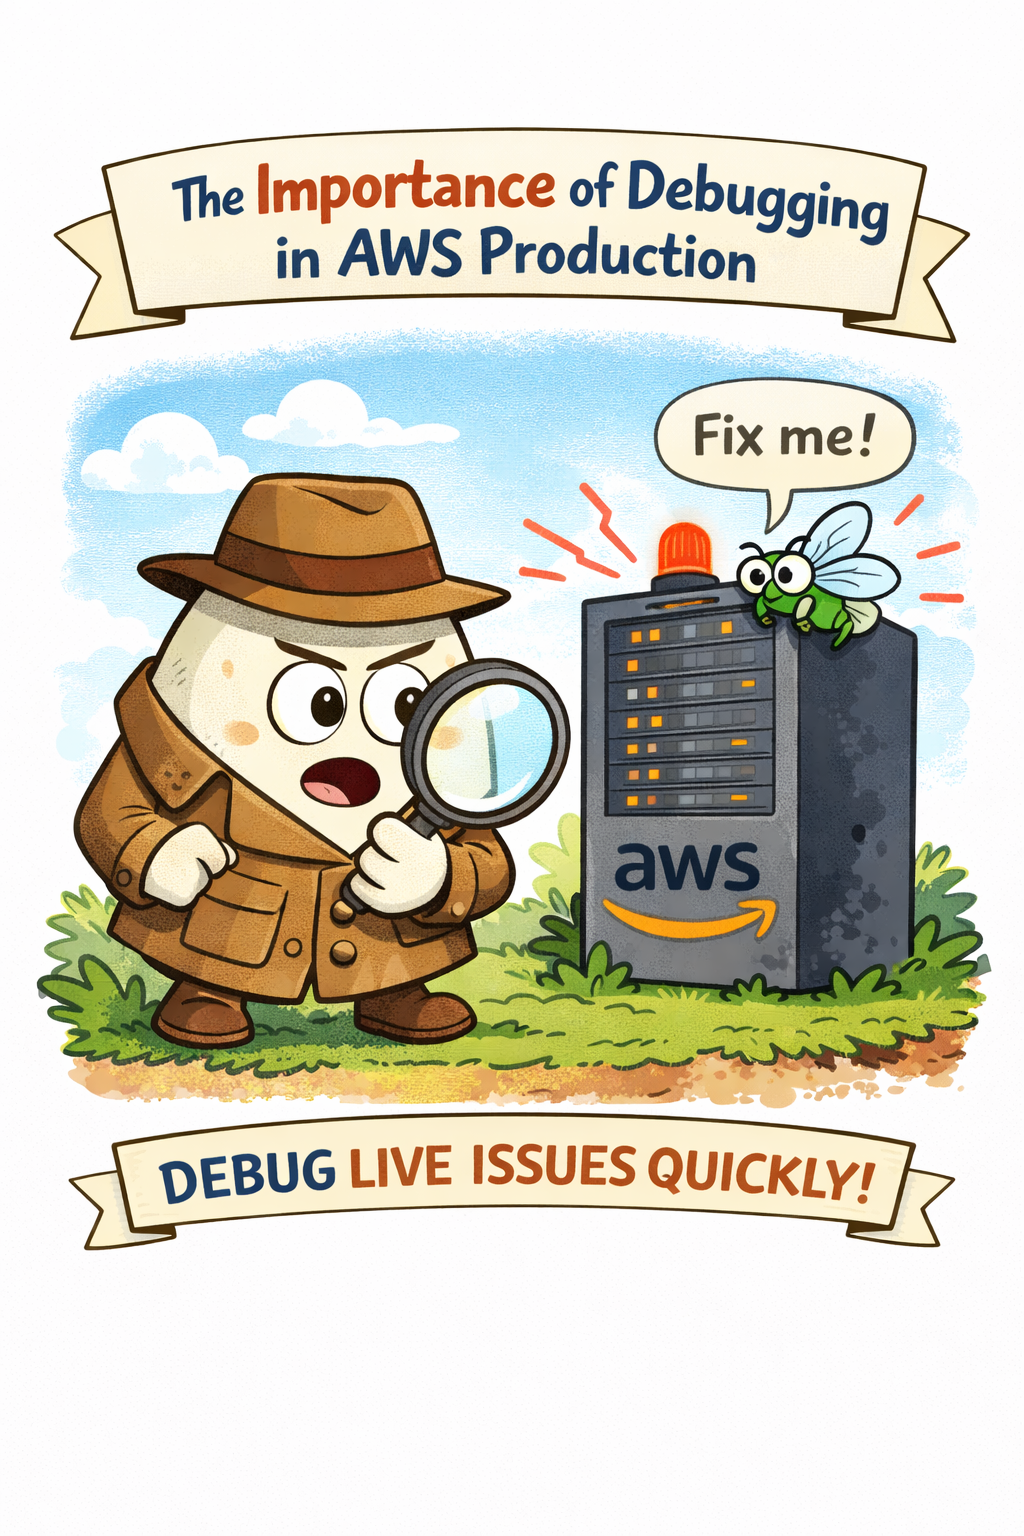
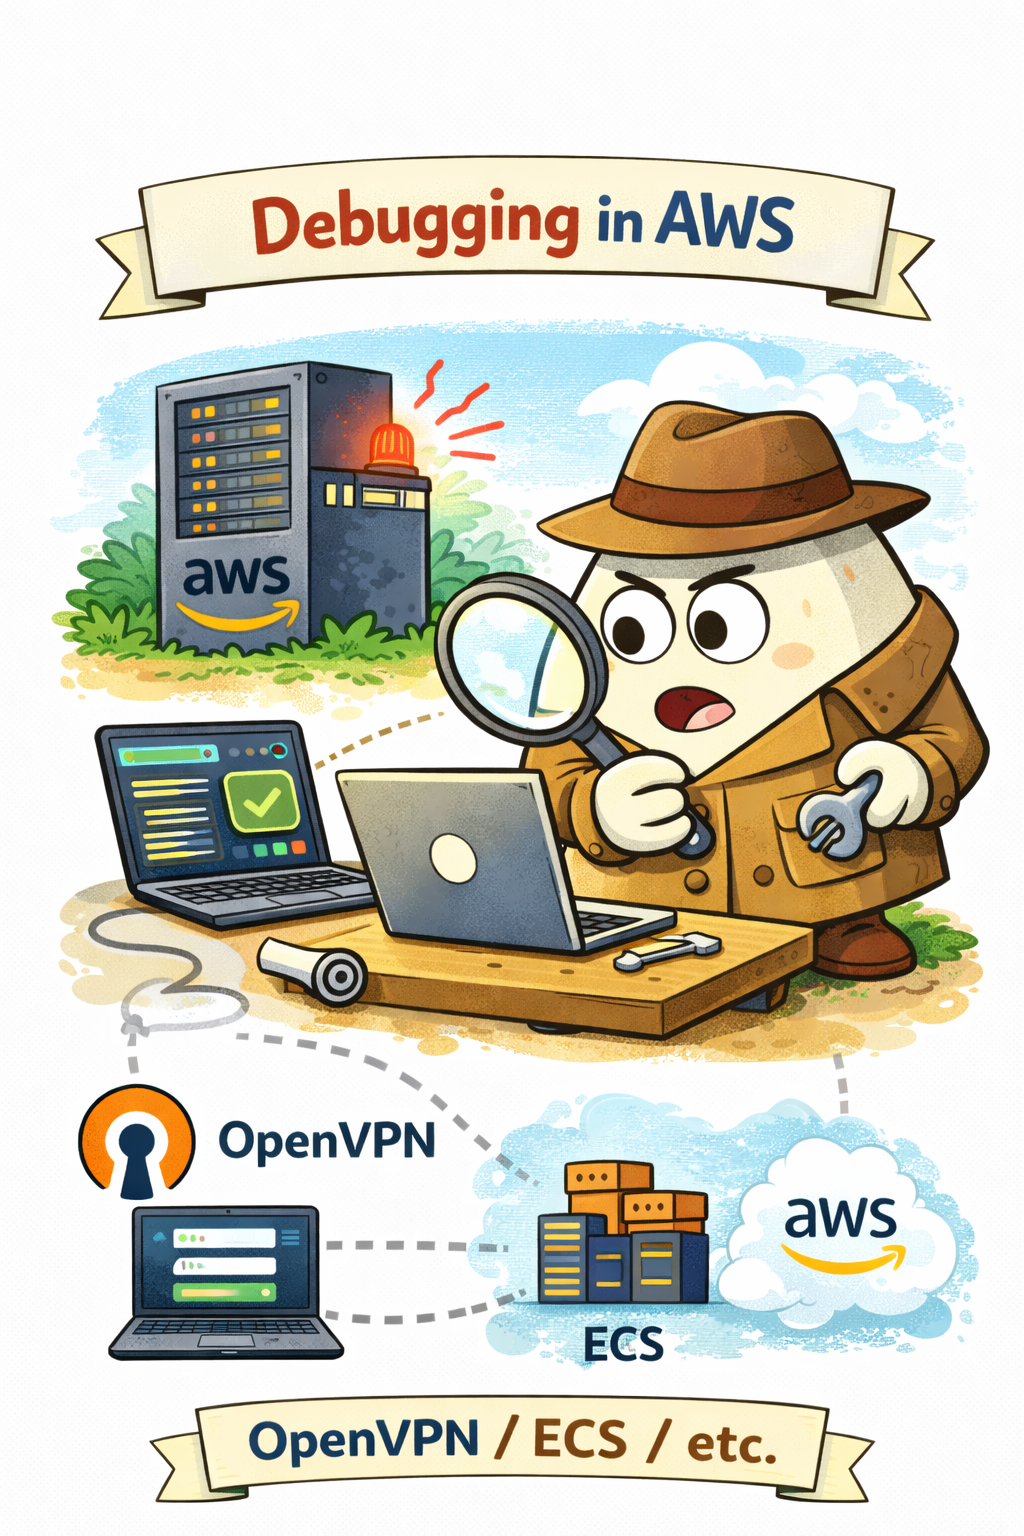
chore: update readme

diff --git a/README.md b/README.md
@@ -1,4 +1,6 @@
-# Prod Forge
+<p align="center">
+  <img alt="Logo" src="https://github.com/prod-forge/terraform/blob/main/assets/prod-forge-logo.png" width="264px" height="243px">
+</p>
 
 **Prod Forge** is an open-source guide to building production-ready software systems.
 
@@ -53,7 +55,9 @@ This project is split into multiple repositories:
 
 ## Overview
 
-![Architecture](https://github.com/prod-forge/terraform/blob/main/assets/architecture_diagram.png)
+<p align="center">
+  <img alt="Architecture" src="https://github.com/prod-forge/terraform/blob/main/assets/architecture_diagram.png">
+</p>
 
 This repository contains the infrastructure required to run the backend system in a production-like environment.
 
@@ -78,6 +82,10 @@ The infrastructure includes:
 ----
 
 # Development Setup
+
+<p align="center">
+  <img alt="Development Setup" src="https://github.com/prod-forge/terraform/blob/main/assets/setting-up-project.png" width="512px" height="768px">
+</p>
 
 Before working with the Terraform infrastructure in this repository, several initial steps are required.
 
@@ -252,6 +260,10 @@ Once the bootstrap infrastructure is created, the main Terraform project can saf
 
 ## Workflow
 
+<p align="center">
+  <img alt="Development Setup" src="https://github.com/prod-forge/terraform/blob/main/assets/workflow.png" width="512px" height="768px">
+</p>
+
 After the above preparation, we can begin setting up the infrastructure.
 
 It is recommended to create the infrastructure in stages:
@@ -279,7 +291,9 @@ terraform apply -target='module.ecr.aws_ecr_repository.prod_forge_repo'
 
 ### The "Chicken and Egg" Problem
 
-![Architecture](https://github.com/prod-forge/terraform/blob/main/assets/chicken-egg-problem.png)
+<p align="center">
+  <img alt="The Chicken and Egg Problem" src="https://github.com/prod-forge/terraform/blob/main/assets/chicken-egg-problem.png" width="512px" height="768px">
+</p>
 
 In many organizations, the DevOps and backend teams work independently and often in parallel. This can create a common
 problem during the early stages of a project:
@@ -557,6 +571,10 @@ aws logs tail <LOG_GROUP> --since 10h
 
 # Debugging and Troubleshooting
 
+<p align="center">
+  <img alt="The Debugging and Troubleshooting Problem" src="https://github.com/prod-forge/terraform/blob/main/assets/debugging.png" width="512px" height="768px">
+</p>
+
 Debugging is one of the most critical aspects of operating production infrastructure.
 
 When something goes wrong in production, engineers must be able to quickly diagnose the problem and identify the root
@@ -564,8 +582,6 @@ cause.
 
 This project demonstrates several common debugging practices used when working with AWS infrastructure and containerized
 applications.
-
-![Debugging](https://github.com/prod-forge/terraform/blob/main/assets/debugging.png)
 
 ## ECS / Fargate Debugging
 
@@ -660,7 +676,9 @@ openssl x509 -req \
 
 As a result, you should have this list of files in the **vpn-key** folder:
 
-![Certificate](https://github.com/prod-forge/terraform/blob/main/assets/certificate.png)
+<p align="center">
+  <img alt="Certificate" src="https://github.com/prod-forge/terraform/blob/main/assets/certificate.png" width="307px" height="406px">
+</p>
 
 Verify:
 
@@ -743,6 +761,14 @@ Expected output:
 Name: my-postgres-db.chg8augcmdse.eu-central-1.rds.amazonaws.com
 Address: 10.0.2.27
 ```
+
+#### Connect to RDS or Redis
+
+As a result, we can connect to RDS or Redis through VPN:
+
+<p align="center">
+  <img alt="RDS Connection" src="https://github.com/prod-forge/terraform/blob/main/assets/datagrip-connection.png" width="794px" height="669px">
+</p>
 
 ## EC2 SSH Connection
 
